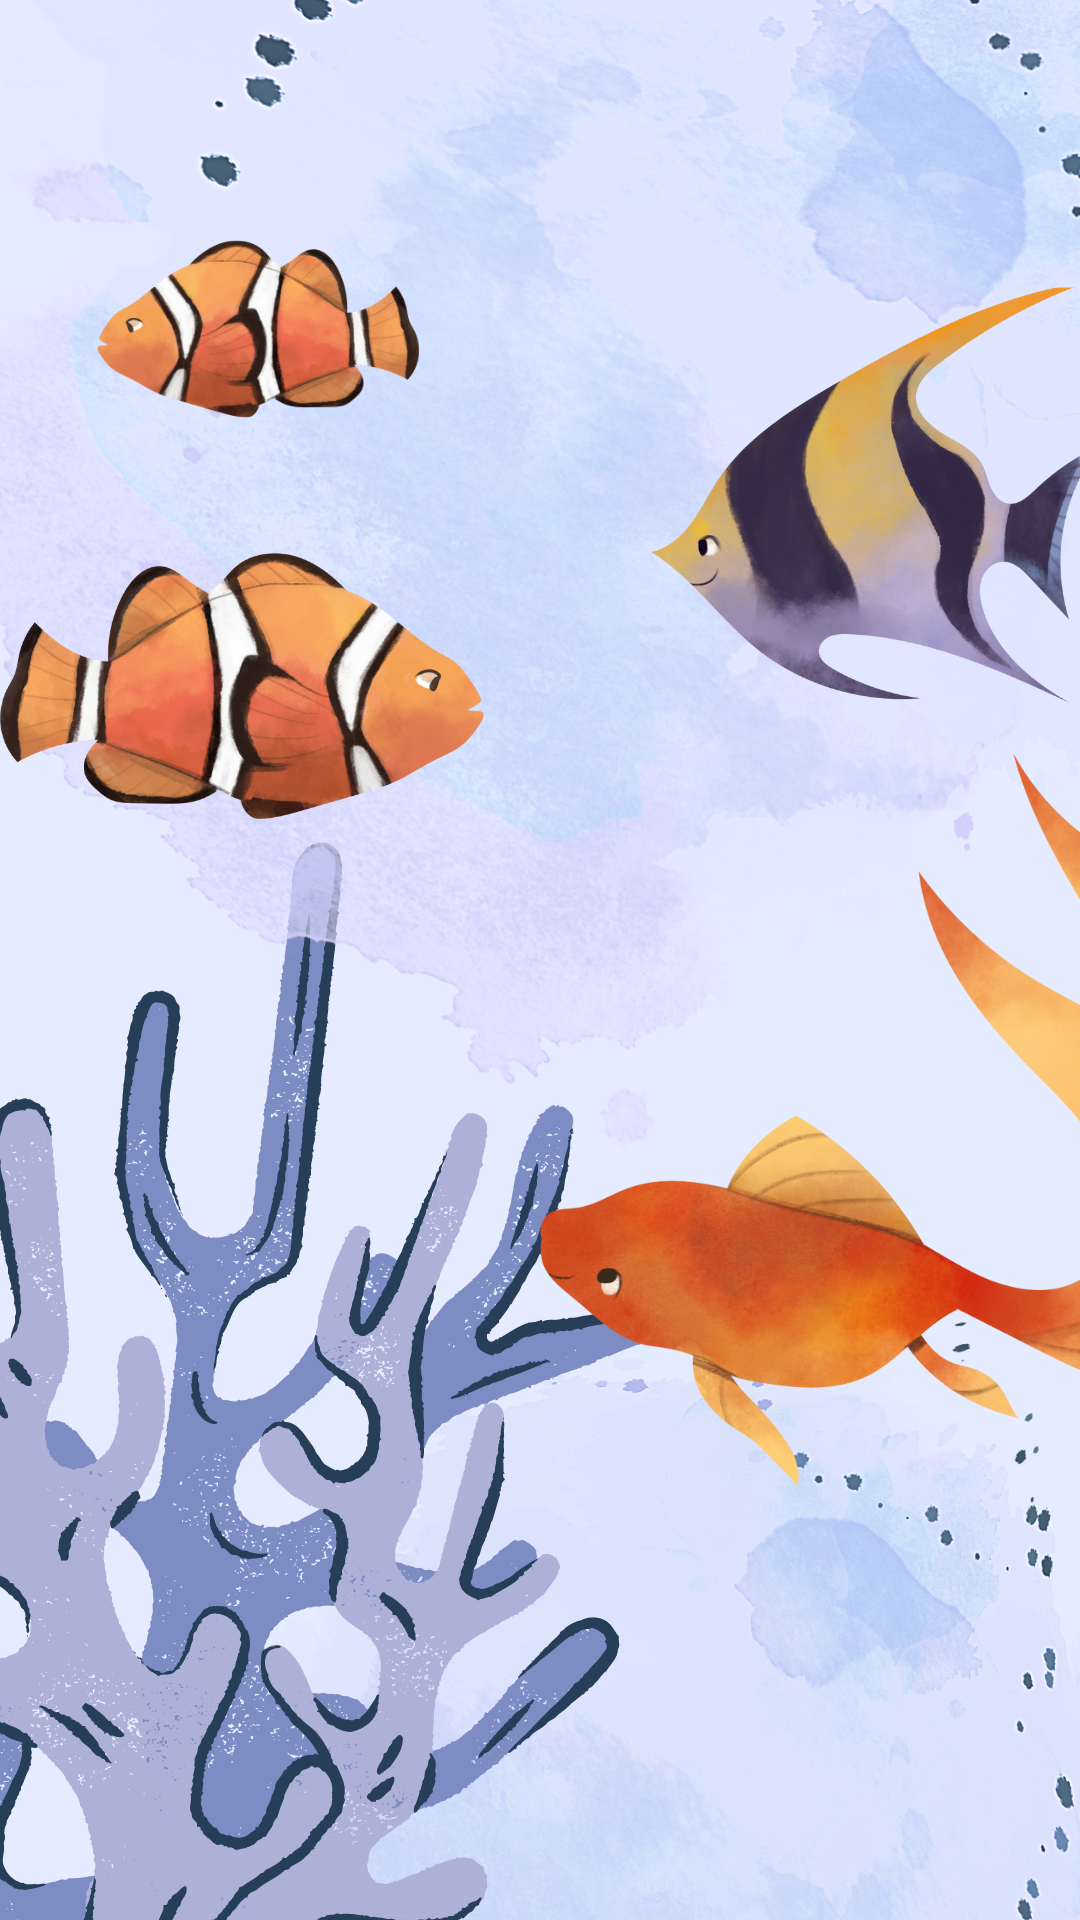
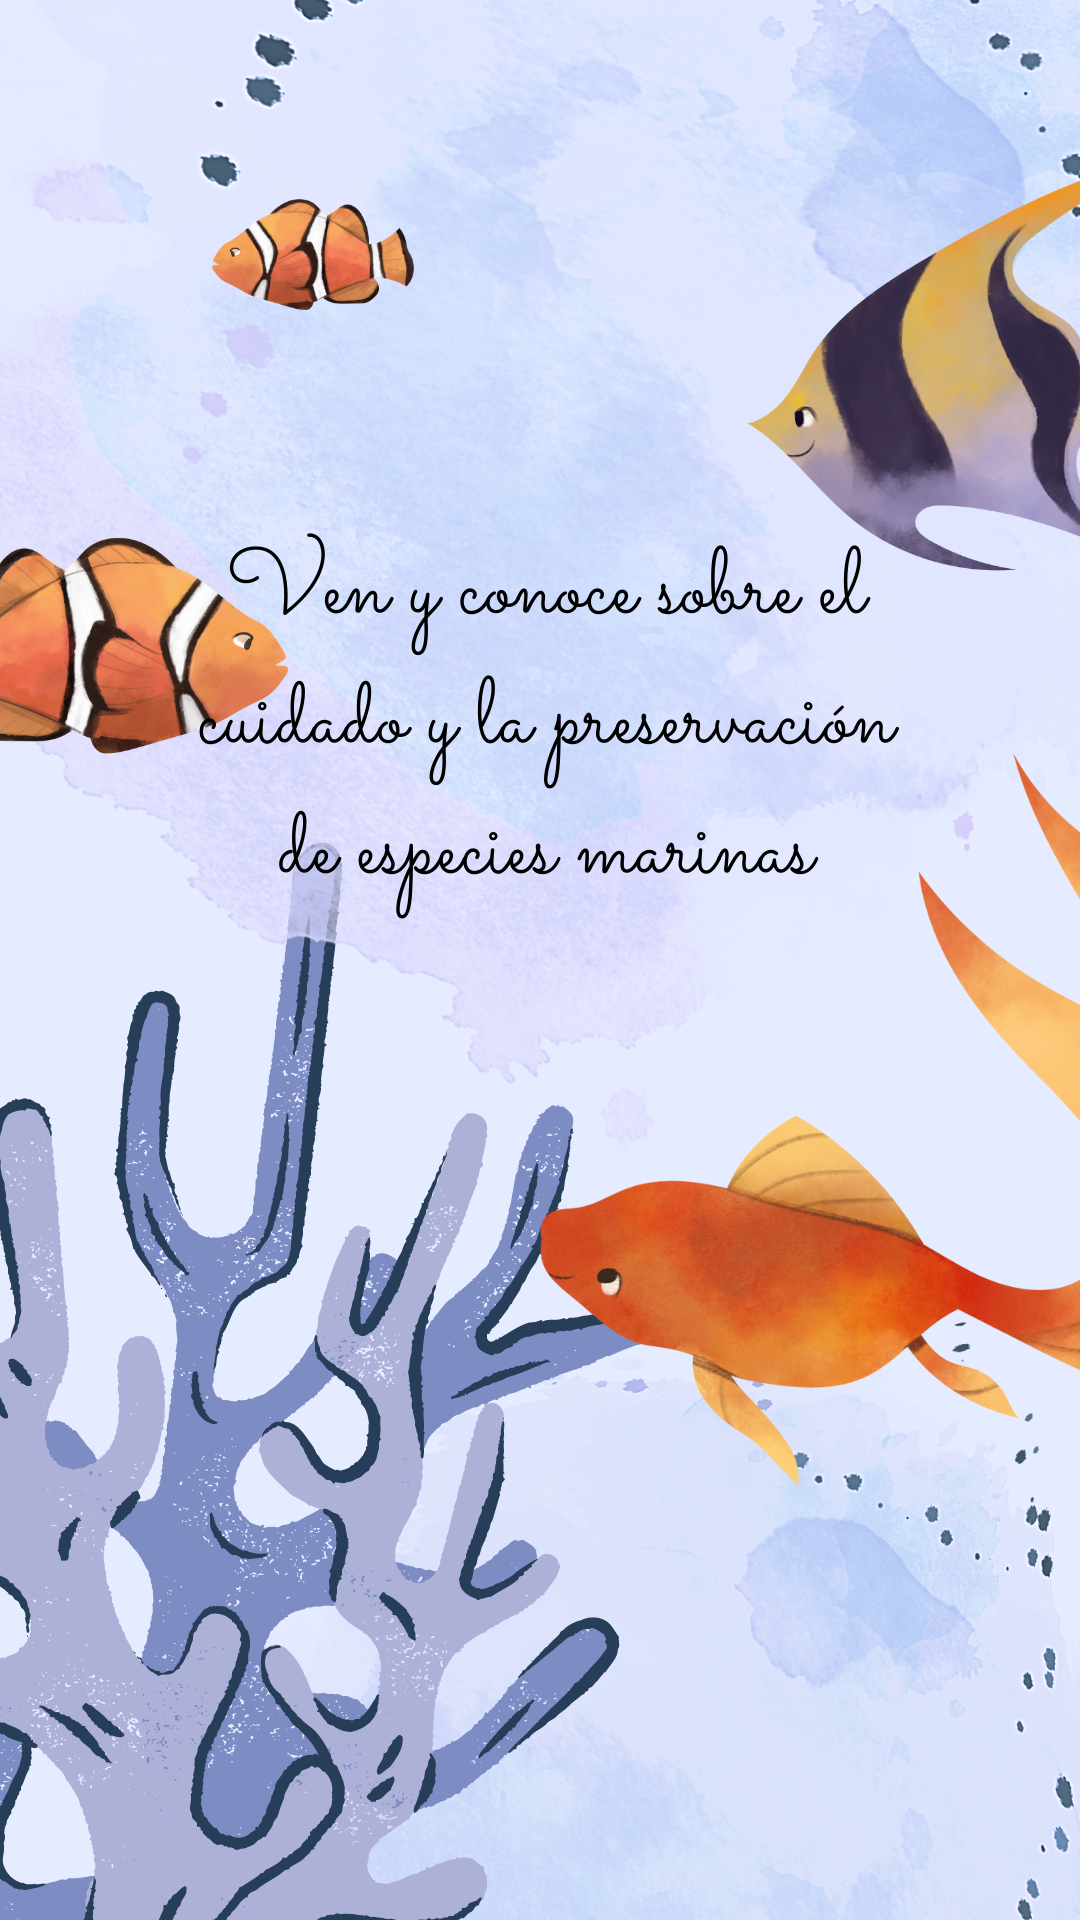
Se habilitaron las rutas

diff --git a/index.html b/index.html
@@ -10,10 +10,17 @@
     <link rel="stylesheet" href="https://stackpath.bootstrapcdn.com/bootstrap/4.3.1/css/bootstrap.min.css" integrity="sha384-ggOyR0iXCbMQv3Xipma34MD+dH/1fQ784/j6cY/iJTQUOhcWr7x9JvoRxT2MZw1T" crossorigin="anonymous">
     <style>
         body {
-            background-image: url('./src/assets/images/OceanWallpaper.jpg');
+            background-color: rgb(174, 205, 251);
             background-repeat: no-repeat;
             background-attachment: fixed;  
             background-size: cover;
+        }
+
+        .center {
+            display: flex;
+            justify-content: center;
+            align-items: center;
+            height: 100%;
         }
 
         @media screen and (max-width: 800px) {
@@ -44,10 +51,10 @@
                 <a class="nav-link" href="#">Inicio</a><span class="sr-only">(current)</span>
             </li>
             <li class="nav-item">
-                <a class="nav-link" href="#">Acuamigos</a>
+                <a class="nav-link" href="./acua.html">Acuamigos</a>
             </li>
             <li class="nav-item active">
-                <a class="nav-link" href="#">Información</a>
+                <a class="nav-link" href="./info.html">Información</a>
             </li>
             <li class="nav-item">
                 <a class="nav-link" href="#">Donaciones</a>
@@ -63,7 +70,13 @@
 
     <div class="homeContainer">        
         <div class="item" style="background-image: url(./src/assets/images/homeImage1.png);"></div>
-        <div class="item"></div>
+        <div class="item" style="background-image: url(./src/assets/images/OceanWallpaper.jpg);">
+            <div class="center">
+                <h5>Si quieres cuidar a tu amigo marino da click</h5><a href="./acua.html" class="btn btn-info" role="button">Aquí</a>
+                <br>
+                <h5>Si quieres saber cómo ayudar a las especies marinas da click</h5><a href="./info.html" class="btn btn-info" role="button">Aquí</a>
+            </div>
+        </div>
         <div class="item" style="background-image: url(./src/assets/images/homeImage2.png);"></div>
     </div>
 

diff --git a/info.html b/info.html
@@ -41,10 +41,10 @@
         <a class="navbar-brand" href="#">Stone Free</a>
         <div class="navbar" id="navbar">
             <li class="nav-item">
-                <a class="nav-link" href="#">Inicio</a>
+                <a class="nav-link" href="./index.html">Inicio</a>
             </li>
             <li class="nav-item">
-                <a class="nav-link" href="#">Acuamigos</a>
+                <a class="nav-link" href="./acua.html">Acuamigos</a>
             </li>
             <li class="nav-item active">
                 <a class="nav-link" href="#">Información<span class="sr-only">(current)</span></a>

diff --git a/src/assets/styles/styleSheet.css b/src/assets/styles/styleSheet.css
@@ -215,7 +215,7 @@
 }
 
 .homeContainer{
-    position: relative;
+    
     display: grid;
     top: 10%;
     height: 100%;
@@ -229,12 +229,9 @@
 }
 
 .item{
-    position: relative;
     width: 100%;
     height: 100%;
     background-size: cover; 
     background-position: center;
-    display: flex;
-    align-items: flex-end;
-    justify-content: flex-end;
+    
 }
